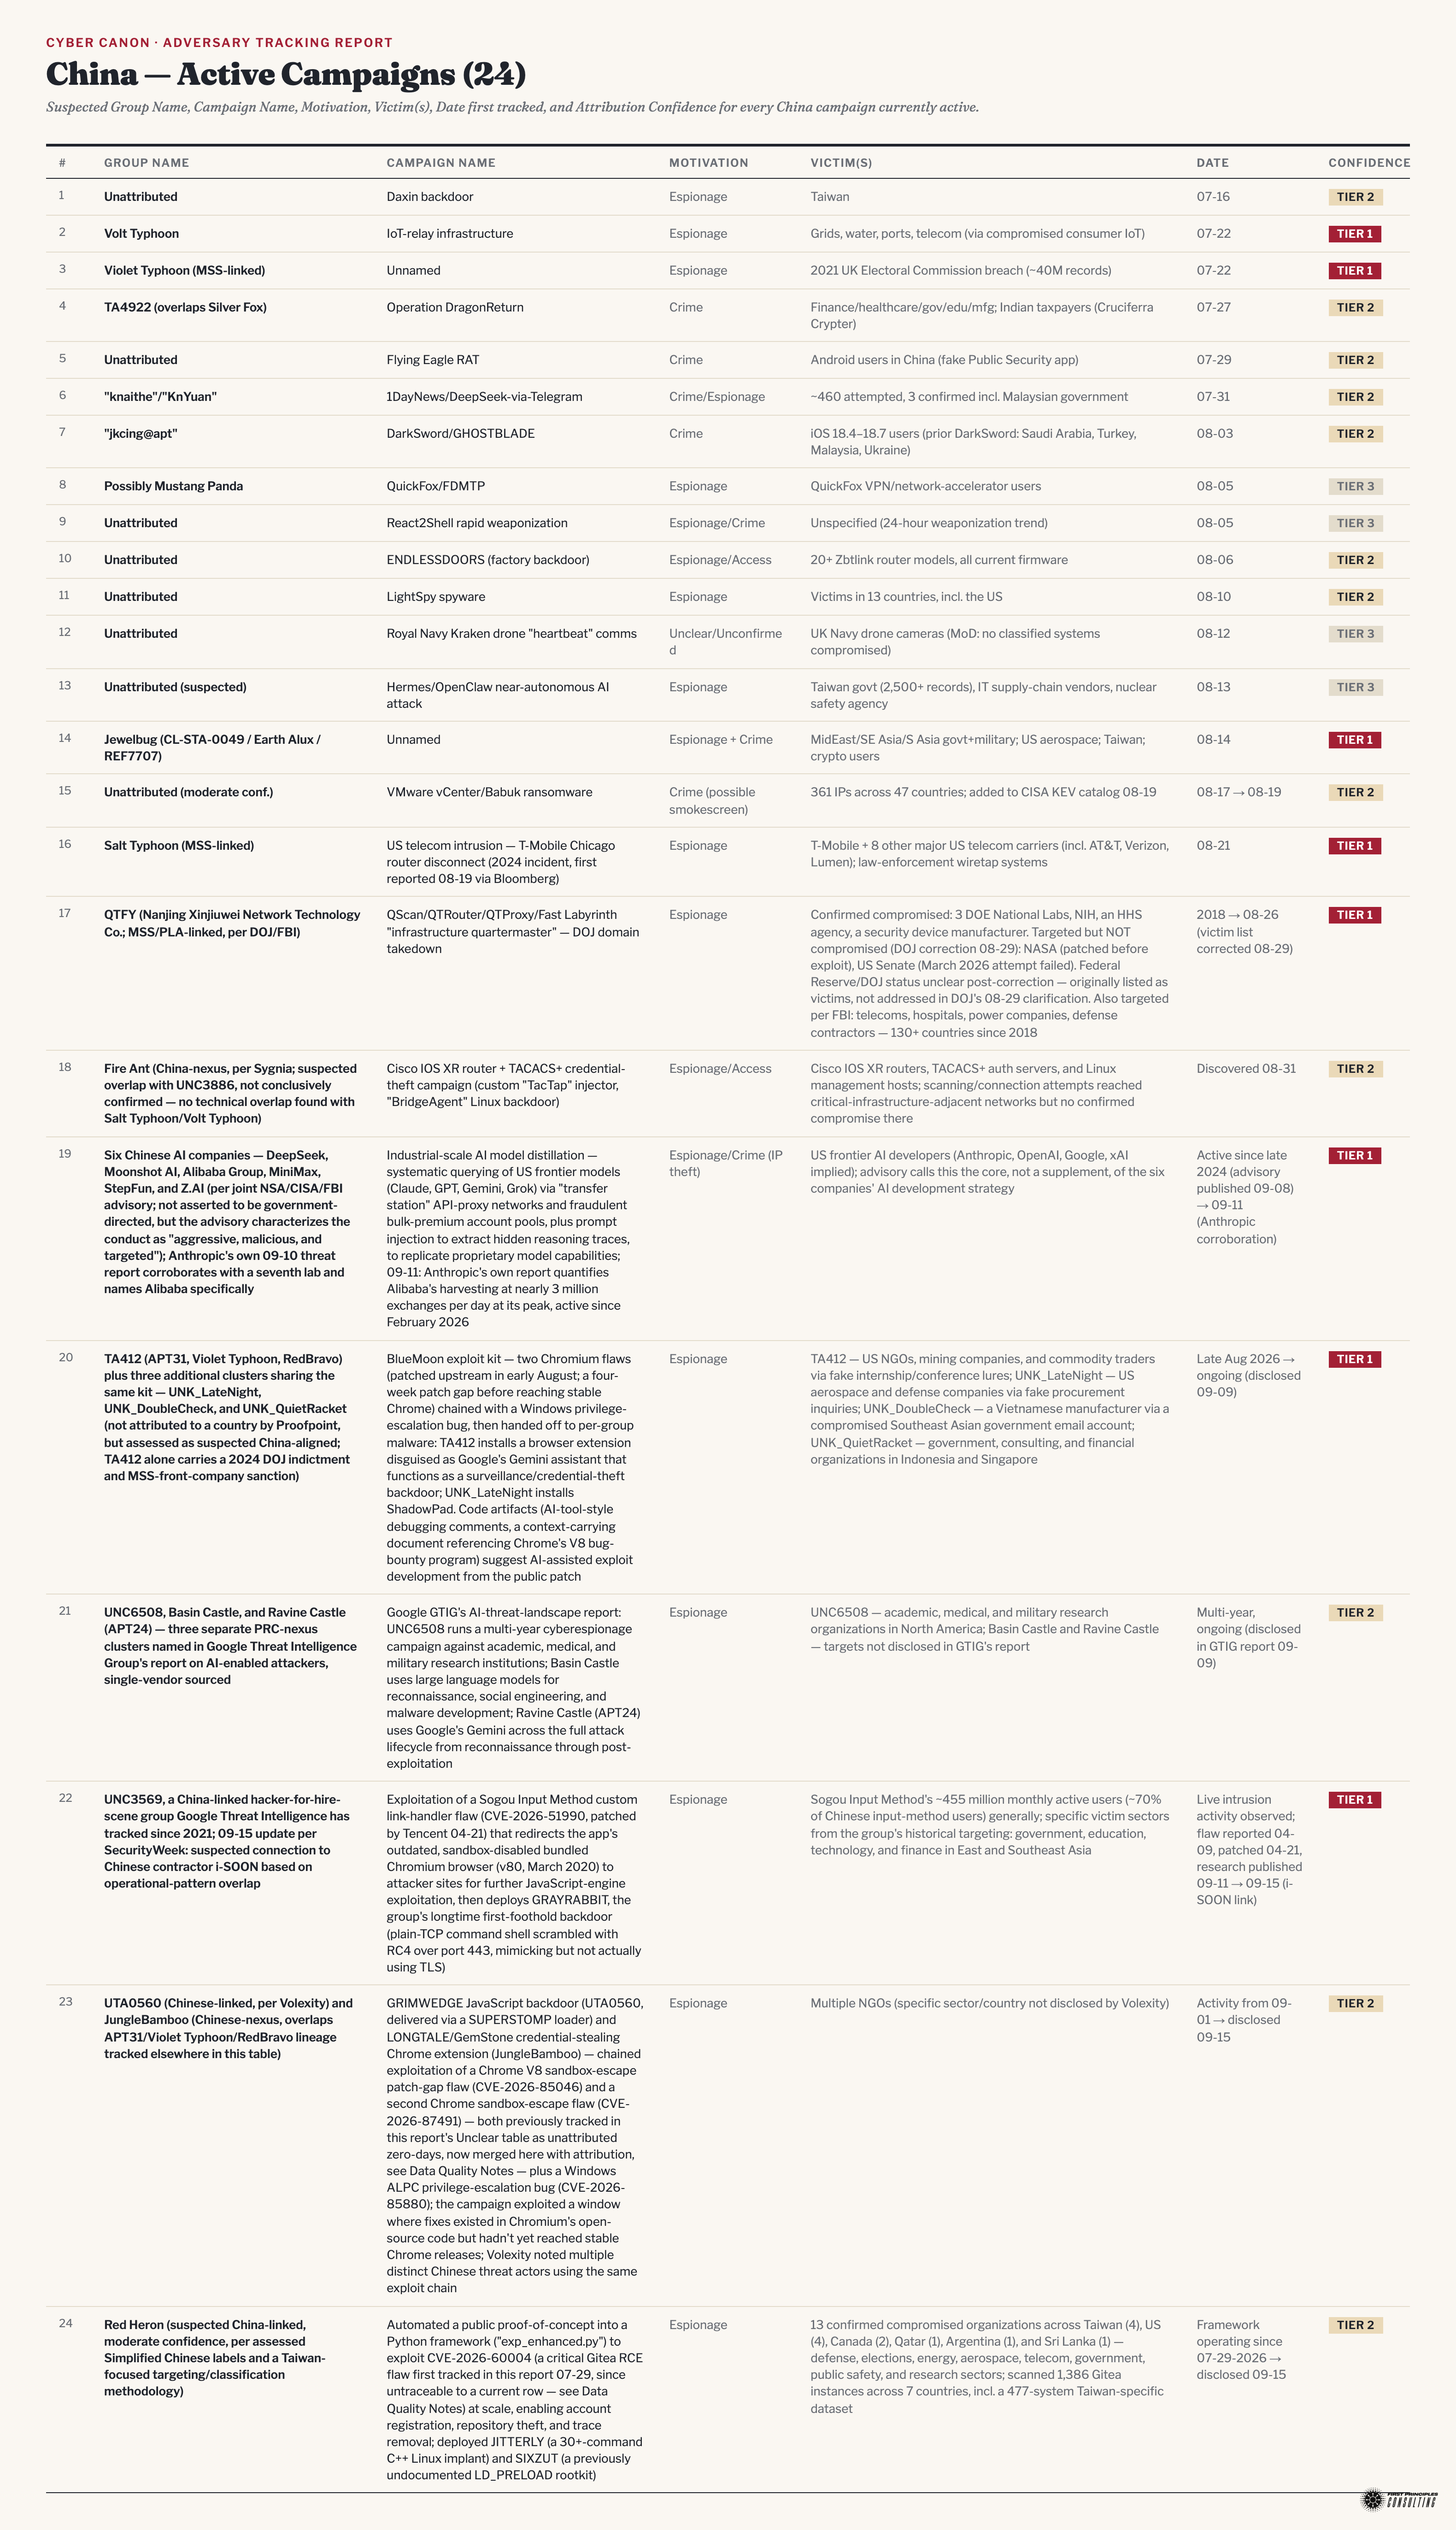
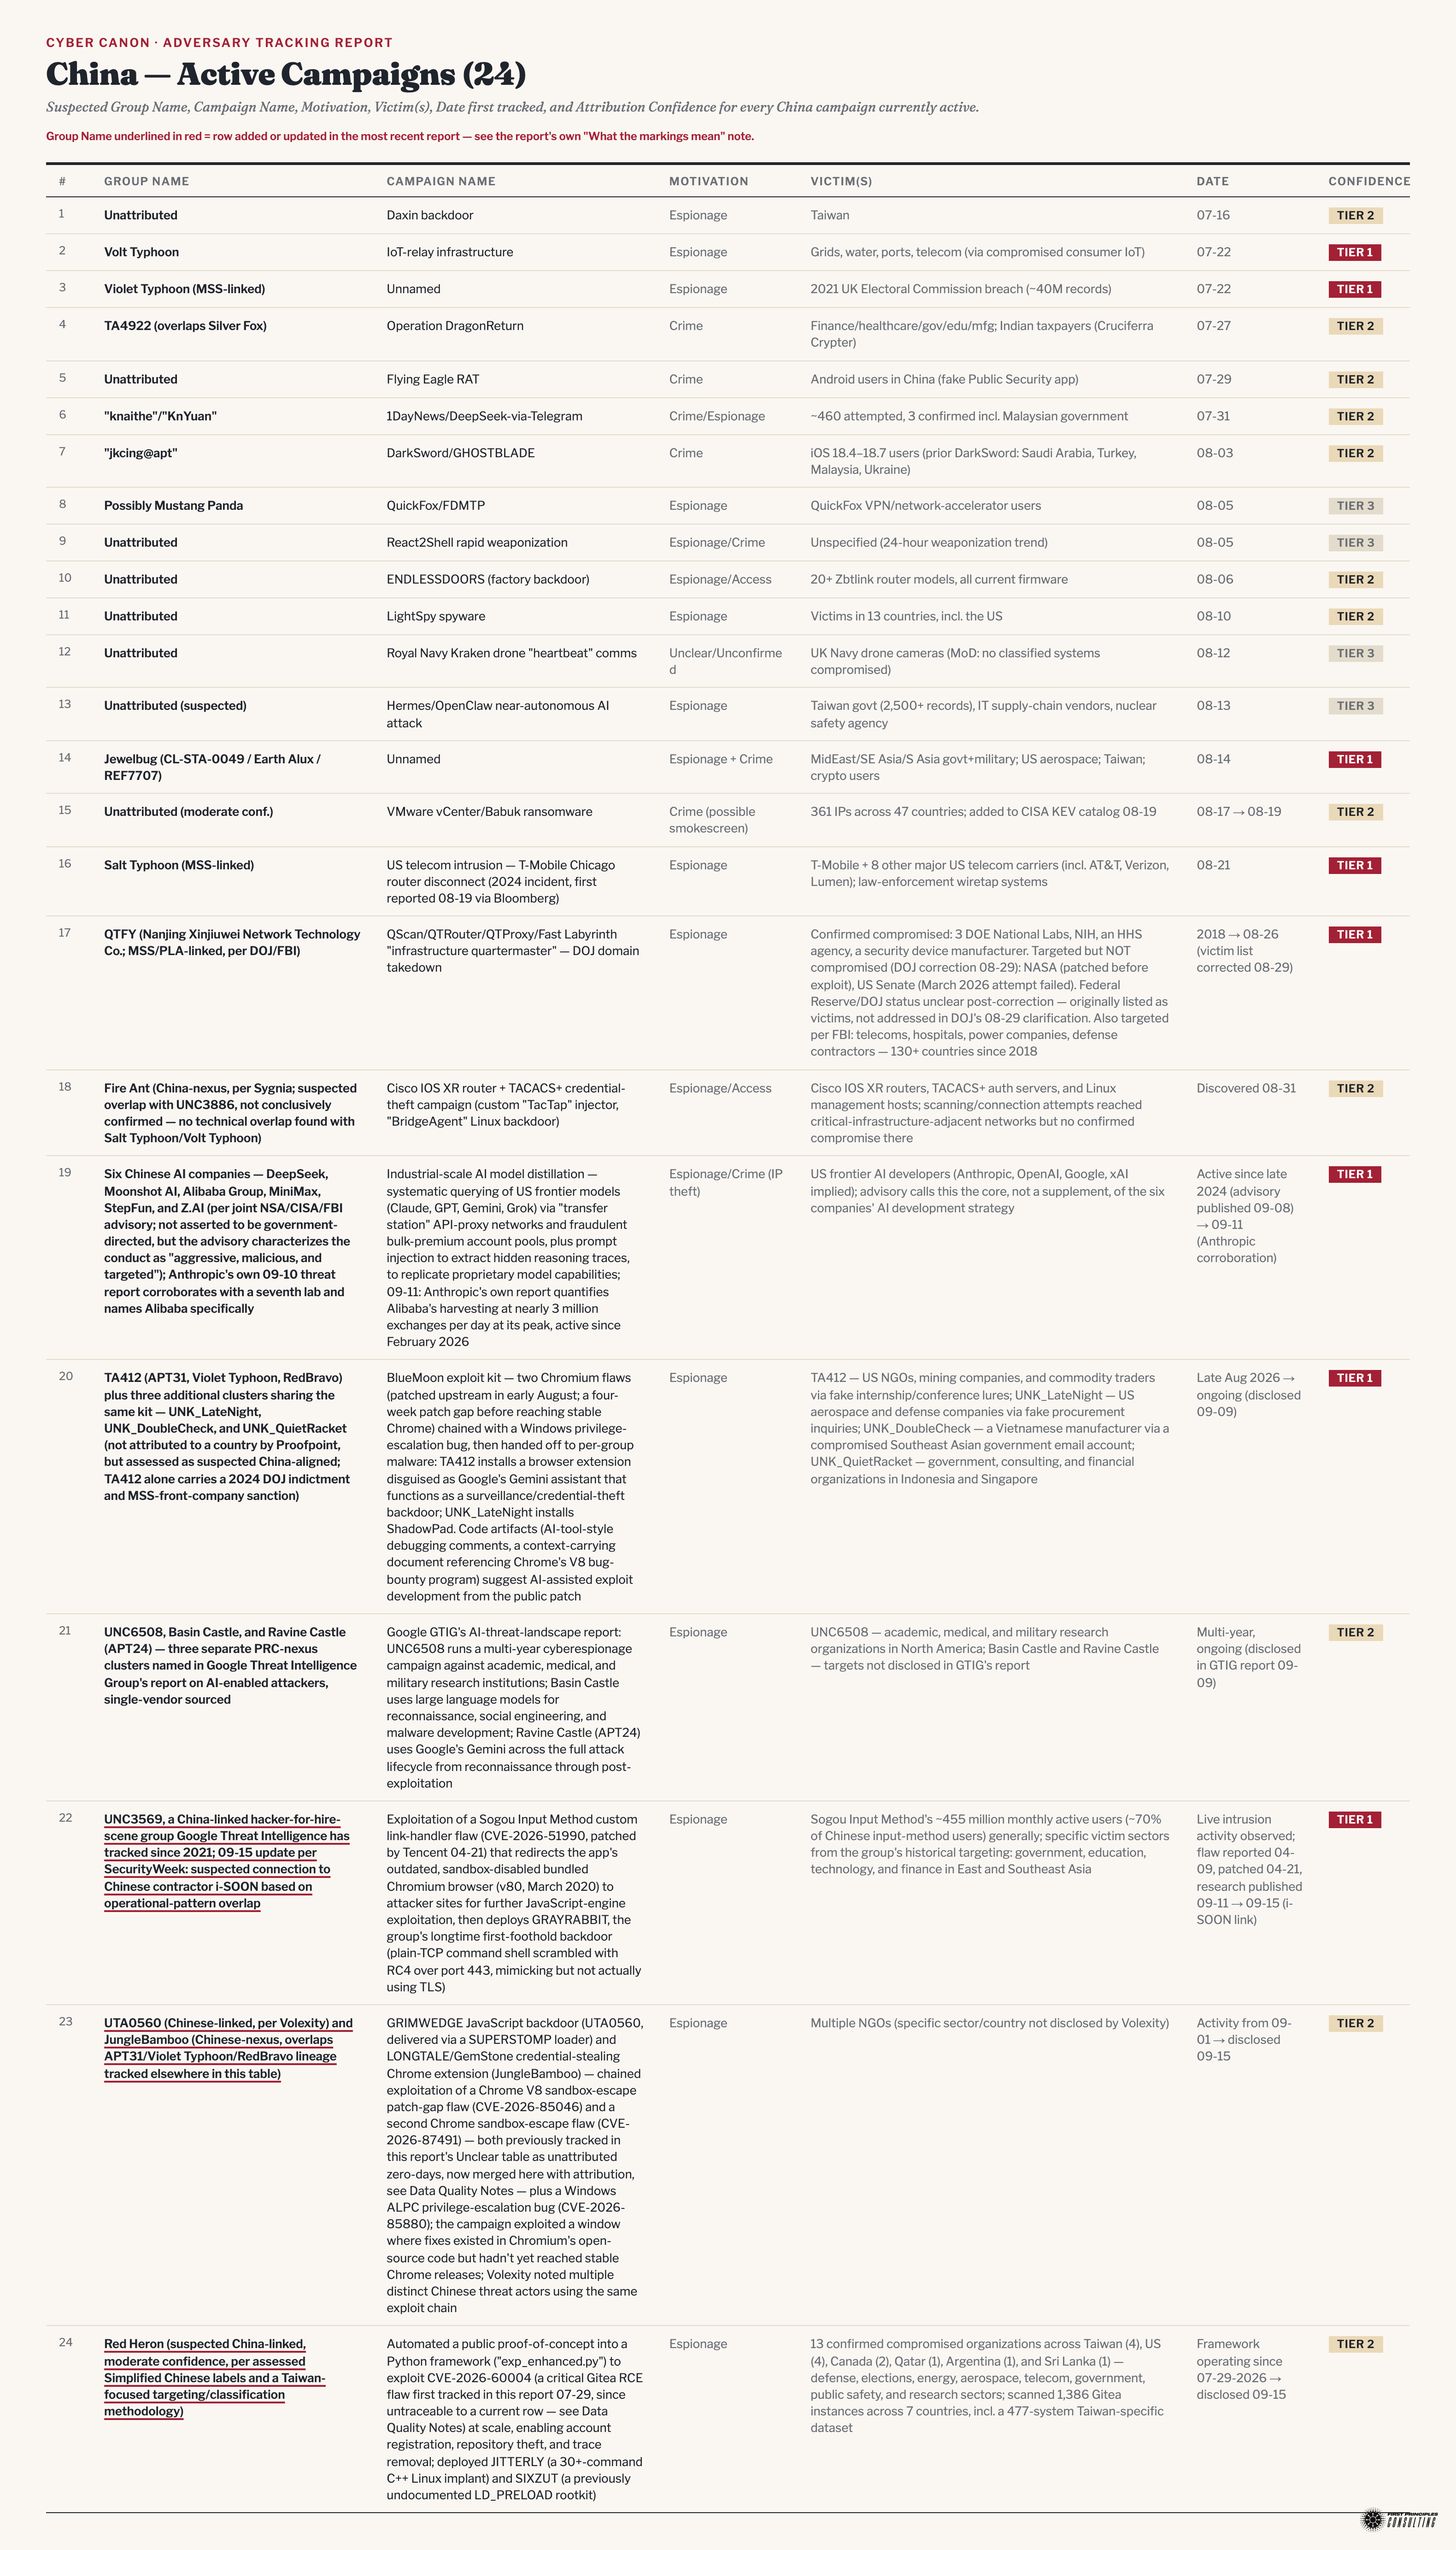
2026-09-15: add change-marking (circled/underlined) to Adversary Tracking Report diagrams

diff --git a/reports/2026-09-15-adversary-tracking-report.md b/reports/2026-09-15-adversary-tracking-report.md
@@ -6,6 +6,8 @@
 
 **Latest update (2026-09-15):** 7 new campaigns added — 2 China (a Chrome/Windows zero-day chain attributed to UTA0560/JungleBamboo, merging two previously unattributed rows out of the Unclear table; and "Red Heron," a Gitea RCE campaign spanning 6 countries), 1 Hacktivism (pro-Ukraine group "Hacking Cat"), and 4 Cybercrime (a Microsoft-named passkey-phishing cluster, an HBO Max Reddit ClickFix campaign, the Revolut fraudulent-data-request breach, and a Central Asia fake-government-site scam network). 1 new Concluded entry (Black Axe South Africa cell, extradited). 3 existing rows updated (UNC3569/i-SOON link, ShinyHunters/McKesson data publication, plus the Unclear-table merge above). Net: 172 active campaigns, up from 167. Full reasoning in today's Data Quality Notes entry below.
 
+**What the markings mean (added 2026-09-15, per Rick's instruction):** every diagram below marks what changed since the *previous* report, not just this one's headline count. In the overview heatmap, a **circled number** is a cell whose campaign count changed since the last report. In each per-category table, a **Group Name underlined in red** is a row that was added or updated in the most recent report. Both markings reset each run — they show the single most recent change, not a cumulative history; the running history lives in Data Quality Notes below, where every change is dated.
+
 <img src="https://raw.githubusercontent.com/raceBannon99/The-Nexus/main/reports/images/2026-09-15-adversary-tracking-report/adversary-tracking-tier-legend-table.png">
 
 ## At a Glance
@@ -160,8 +162,8 @@ Each subsection below is a single designed table image — Group Name, Campaign 
 
 After Sherlock's fact-gathering and CIR-matching in any run (ad-hoc `nexus` engagement or daily report):
 
-1. **Ryan** reads this file so new entries build on what's already tracked, then determines what needs to change for every item CIR-matched to Adversary Playbook: a new campaign (new row — first decide Actor Type per the Rules section (near the bottom of the file), file it under the right Nation-State country subsection or under Cybercrime/Hacktivism/Unclear, then tag it with an Attribution Confidence tier), a continuation of a tracked campaign (update the existing row's Target/Motivation/Confidence/Tracked cells, extend the date range with "→" — re-check both Actor Type and Confidence, since new reporting can change either), or a status change (move the row to Dormant or Concluded). Cross-check against Alexandria's recirculation curation, since a continuation is also a recirculation candidate for the report body itself.
-2. **Tufte** takes what Ryan flagged and applies it to the report's structure. Two kinds of artifact now, both regenerated whenever a change touches them: the **overview heatmap** (`assets/adversary-tracking-heatmap.png` — any actor-type/confidence cell-count shift) and the **per-category table image** for every category a row was added to, moved out of, or edited within (`assets/adversary-tracking-<category>-table.png`). A new campaign only touches its own category's table and the overview; an Actor Type reclassification touches the old category's table, the new category's table, and the overview. Rebuild table images with `Nexus Agents/Agent Tufte/build_tables.py` (row data lives in that script, one Python tuple per campaign — add/edit/remove a tuple, re-run to regenerate the HTML, then render with `render_tables.py <outdir> <slug> [<slug> ...]`, which drives the `epic-infographics` skill's `check.mjs`/`render.mjs` and auto-falls-back to a fixed-height render + crop for tables shorter than 1080px — see `Agent Tufte Concept.md`'s 2026-08-27 entry for why that fallback exists) rather than hand-authoring HTML per row. Re-save over the same filename so the Obsidian embed doesn't break. The first campaign ever tracked under Hacktivism replaces the empty-state table with a real one-row (and growing) table, built the same way as the other seven. If the format stops working again as the table or diagrams grow, he has authority to redesign further, the same way the 2026-08-17/08-18/08-19 passes did repeatedly.
+1. **Ryan** reads this file so new entries build on what's already tracked, then determines what needs to change for every item CIR-matched to Adversary Playbook: a new campaign (new row — first decide Actor Type per the Rules section (near the bottom of the file), file it under the right Nation-State country subsection or under Cybercrime/Hacktivism/Unclear, then tag it with an Attribution Confidence tier), a continuation of a tracked campaign (update the existing row's Target/Motivation/Confidence/Tracked cells, extend the date range with "→" — re-check both Actor Type and Confidence, since new reporting can change either), or a status change (move the row to Dormant or Concluded). Cross-check against Alexandria's recirculation curation, since a continuation is also a recirculation candidate for the report body itself. **Record every row he added or edited today** (added 2026-09-15, per Rick's instruction) — its 1-indexed position in that category's list, matching the rendered table's own "#" column — in `Nexus Agents/Agent Tufte/row_changes.json`, overwriting the file's `changed` map fresh each run (it's a snapshot of the most recent update, not a cumulative log). A row that only shifted position because rows above it were added/removed, without its own content changing, is not "changed" — only rows whose own fields Ryan actually touched.
+2. **Tufte** takes what Ryan flagged and applies it to the report's structure. Two kinds of artifact now, both regenerated whenever a change touches them: the **overview heatmap** (`assets/adversary-tracking-heatmap.png` — any actor-type/confidence cell-count shift) and the **per-category table image** for every category a row was added to, moved out of, or edited within (`assets/adversary-tracking-<category>-table.png`). A new campaign only touches its own category's table and the overview; an Actor Type reclassification touches the old category's table, the new category's table, and the overview. Rebuild table images with `Nexus Agents/Agent Tufte/build_tables.py` (row data lives in that script, one Python tuple per campaign — add/edit/remove a tuple, re-run to regenerate the HTML, then render with `render_tables.py <outdir> <slug> [<slug> ...]`, which drives the `epic-infographics` skill's `check.mjs`/`render.mjs` and auto-falls-back to a fixed-height render + crop for tables shorter than 1080px — see `Agent Tufte Concept.md`'s 2026-08-27 entry for why that fallback exists) rather than hand-authoring HTML per row. Re-save over the same filename so the Obsidian embed doesn't break. The first campaign ever tracked under Hacktivism replaces the empty-state table with a real one-row (and growing) table, built the same way as the other seven. If the format stops working again as the table or diagrams grow, he has authority to redesign further, the same way the 2026-08-17/08-18/08-19 passes did repeatedly. **Change-marking (added 2026-09-15, per Rick's instruction — see "What the markings mean" near the top of this file for the reader-facing explanation).** `build_tables.py` reads Ryan's `row_changes.json` automatically and underlines the Group Name of every listed row, in red, in that category's rendered table — no manual step beyond keeping `row_changes.json` current. The overview heatmap works differently, since it has no per-row identity to key off of: `build_heatmap.py` keeps its own snapshot, `heatmap_snapshot.json` (cell counts as of the run before this one), diffs today's computed counts against it, circles in red any cell whose count changed, then overwrites the snapshot with today's counts for next time — fully automatic, nothing for Tufte to hand-maintain beyond running the script. Both files live alongside `build_tables.py`/`build_heatmap.py`, are plain-vault artifacts (not published to GitHub), and both markings show only the single most recent change, not history — that's what Data Quality Notes is for.
 3. Update the **At a Glance** counts to match.
 4. **Update the "Latest update" summary directly under Purpose, near the top of the file** (added 2026-09-15, per Rick's instruction). Overwrite it, don't append — this reflects the most recent update only, not a running log (the Data Quality Notes section below is the running log). Keep it short: today's date, row counts added/updated/moved by category, and a one-clause hint at the headline items, with a pointer to today's Data Quality Notes entry for the full reasoning. The point is a reader can see what changed without reading the full Data Quality Notes paragraph first.
 5. Save the vault file directly — still a plain vault-file edit, no PR needed for the vault copy itself. All diagram PNGs stay vault-local, saved to `Intelligence Reports/assets/`.
